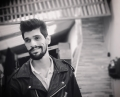
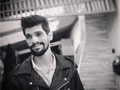
galeria alteracoes

diff --git a/index.html b/index.html
@@ -271,7 +271,7 @@ Entre minhas especializações esta a criação de vetores e logotipos, tratamen
    <tr>
     <td valign="top" width="120"><div align="center"><img class="thumb" src="thumbnails/thumb_rodovia.jpg" width="120" height="90"></div></td>
     <td valign="top" width="120"><div align="center"><img class="thumb" src="thumbnails/thumb_beco.jpg" width="120" height="90"></div></td>
-    <td valign="top" width="120"><div align="center"><img class="thumb" src="thumbnails/thumb_Rockabilly_guy.jpg" width="120" height="97"></div></td>
+    <td valign="top" width="120"><div align="center"><img class="thumb" src="thumbnails/thumb_Rockabilly_guy.jpg" width="120" height="90"></div></td>
    </tr>
   </table>
   <!-- Instagram button -->
